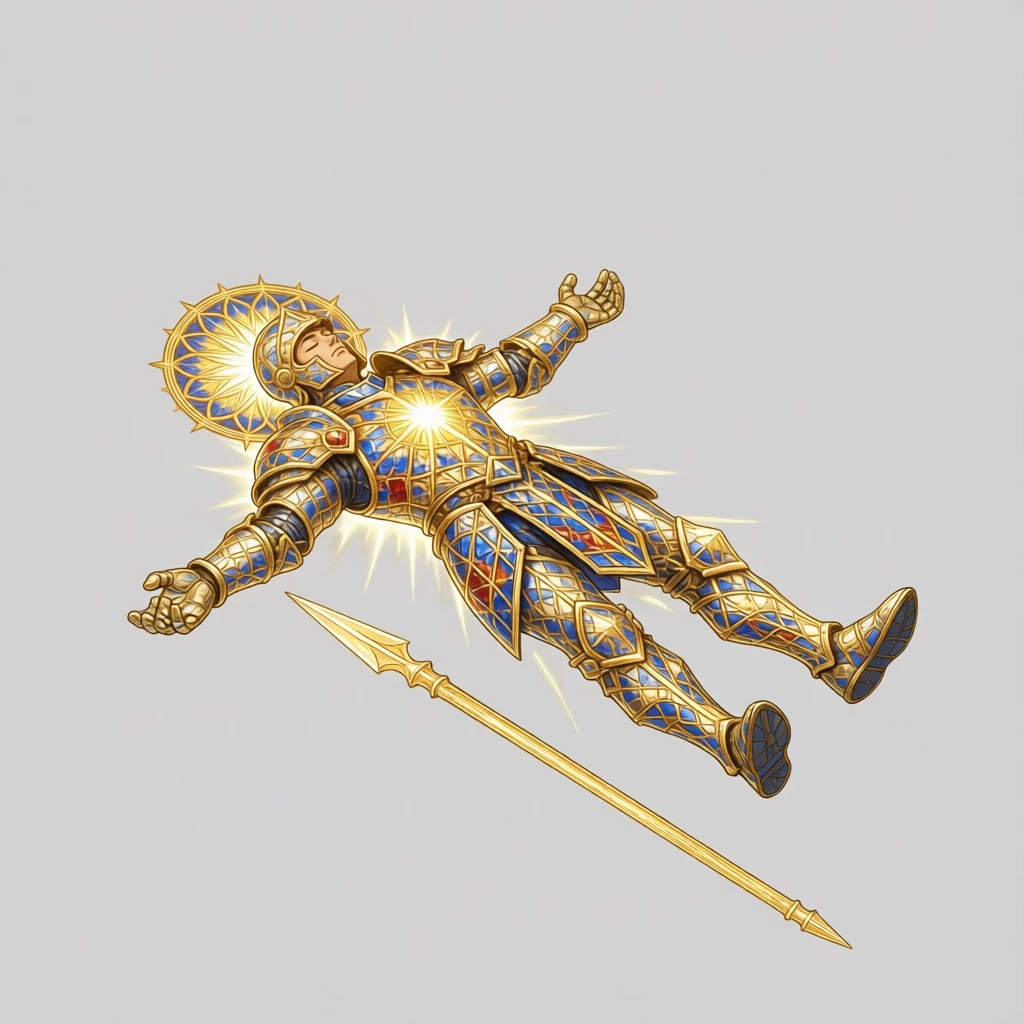
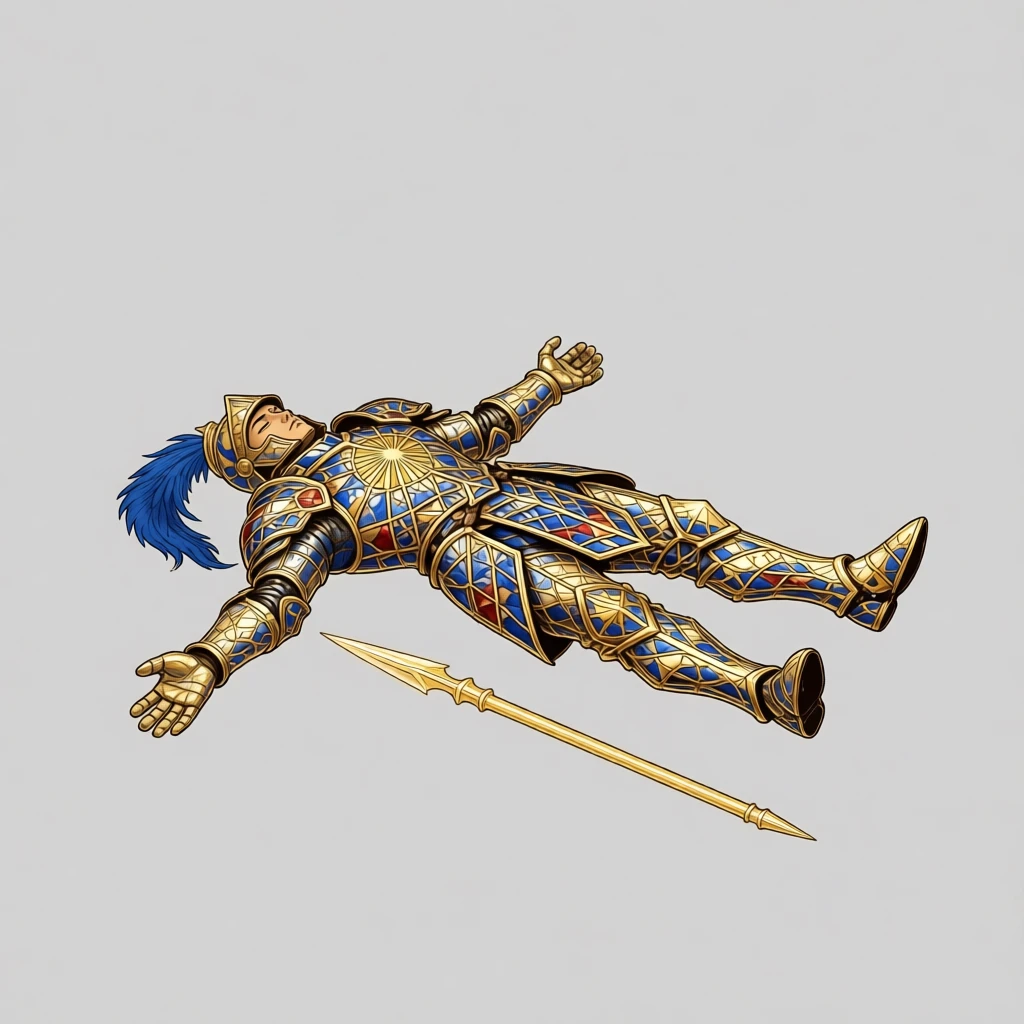
ART-PIPE 2: Sunspears derived from the accepted base, Slingers base redone without the outline, Bloodsworn strike with both blades
Alex's 10-9 verdicts on the base-first batches (#179):
- Sunspears base (m4_redo_base): Good. Poses (march/strike/fallen, 3 takes each, looked at, none had a halo or rays) and the four models
  (ready included) made behind the gate into the model batch m4_redo2 (gitignored review/m4_redo2).
- Hill Slingers base (ind_redo_base): Good with changes on take 3 ("a cel-shaded outline effect the other models don't have"). regen-base now
  edits the take he kept (BASE_FROM) with a prompt that keeps its sling and pouch and repaints it as a soft matte clay miniature; 3 new takes
  in review/ind_redo_base. Nothing is derived from it until he marks it Good.
- Bloodsworn strike (m4_redo): Bad ("removed the arm blade on the other arm"). The strike line names the slim blades of the left forearm too;
  new picture and model in m4_redo2.

Script fixes found on the way: redo handles the ready pose (model row only) and forgets the picks it clears; regen-base rewrites the
manifest first so an edited prompt reaches the redo; compare_sheets copes with a side that has one model. The one ledger line that was a
cached job (model_bloodsworn_ready v1, 0 s) is set to the 0 credits it cost.

Changed region(s): [[0.0938, 0.25, 0.9062, 0.9375]]

diff --git a/tools/ludo/asc_3d_grok.py b/tools/ludo/asc_3d_grok.py
@@ -85,6 +85,16 @@ moved away, the colour lifts of the old model forgotten), and their models go to
 
     python3 tools/ludo/asc_3d_grok.py redo bloodsworn:march bloodsworn:strike bloodsworn:fallen briarwardens:march thornthrowers:fallen
     python3 tools/ludo/asc_3d_grok.py run poses --only bloodsworn,briarwardens,thornthrowers   # then look, `pick <row> <k>`, run models
+
+The 10-9 round (ART-PIPE 2): Alex marked the Sunspears' base Good (review/m4_redo_base), so their derive ran behind the
+gate: `redo sunspears:march sunspears:strike sunspears:fallen sunspears:ready` (the ready pose has only a model row: its
+picture is the base), `run poses --only sunspears`, a look at every picture (a halo or rays added back, or the stained
+glass lost, is re-rolled), `pick`, `run models --only sunspears`, `stage`, then `batch --name m4_redo2 --only ...`. His
+verdict on the Bloodsworn strike in m4_redo was Bad ("close, but it removed the arm blade on the other arm"): the strike
+line names the slim blades of the left forearm as well as the big right one, and it is made again the same way
+(`redo bloodsworn:strike`). A row's request id is sticky: a redo must bump the version (`redo` does), and a `run` that
+reaches a row whose old id was already used gets that old job handed back, free but written to the ledger with the
+credits that job once cost (the batch's ledger line then reads 4.0 for a model that cost nothing: check the account).
 """
 import filecmp
 import glob
@@ -212,11 +222,14 @@ FAMILIES = {
         march="loping forward with his left leg ahead, his arms swinging at his sides, the curved bone blade growing out "
               "of his right forearm as part of the arm and the bone spikes along his left forearm, the blades grow from "
               "the forearms and swing with the arms, his claws open and empty, eyes ahead",
-        ## v2 of the strike picture: the first three takes all drew a hilt, a separate sword raised in his fist.
-        strike="leaping forward in a savage lunge, slashing with his arm blade raised high: the curved bone blade grows out "
-               "of his right forearm as one piece with the arm, running from the elbow past the wrist, his fist closed "
-               "under the blade, the blades grow from the forearms as part of his arms, and his left claws thrust "
-               "forward, mouth open in a snarl",
+        ## v2 of the strike picture: the first three takes all drew a hilt, a separate sword raised in his fist. v3 (Alex
+        ## 10-9, "close, but it removed the arm blade on the other arm"): v2 kept the big right blade and lost the slim
+        ## curved blades of the left forearm that march and fallen have, so the left arm is named with its blades.
+        strike="leaping forward in a savage lunge, slashing with his right arm blade raised high: the big curved bone blade "
+               "grows out of his right forearm as one piece with the arm, running from the elbow past the wrist, his fist "
+               "closed under the blade, while his left arm thrusts forward with the slim curved bone blades growing along "
+               "his left forearm as one piece with that arm, his left claws open at the end of it, the blades grow from "
+               "both forearms as part of his arms, mouth open in a snarl",
         fallen="fallen in battle, lying flat on his back on the floor with his arms out to the sides, the curved bone "
                "blades still growing from his forearms as part of his arms, his claws open and empty, eyes closed"),
 }
@@ -226,20 +239,23 @@ FAMILIES = {
 ## measured guess (asc_3d_factions.measure) stands in. A model's yaw is 0 as in asc-3d-paths: Ludo's GLBs face +Z, which
 ## the board's yaw 180 turns to -Z (the game reads only a GLB's first mesh, so a turn baked into a node would be lost).
 READING = {
-    ("sunspears", "ready"): 0.85, ("sunspears", "march"): 0.88, ("sunspears", "strike"): 0.87,
+    ## the Sunspears' three were read again off the 10-9 pictures' rulers (the halo and rays gone; the spear tip or the plume now
+    ## the top of the figure): helmet top at 13% / 14% / 8% of the figure's height
+    ("sunspears", "ready"): 0.87, ("sunspears", "march"): 0.86, ("sunspears", "strike"): 0.91,
     ("seraphs", "ready"): 0.89, ("seraphs", "march"): 0.87, ("seraphs", "strike"): 0.69,
     ("iron_knights", "ready"): 0.92, ("iron_knights", "march"): 0.94, ("iron_knights", "strike"): 0.93,
     ("iron_colossus", "ready"): 0.96, ("iron_colossus", "march"): 0.96, ("iron_colossus", "strike"): 0.93,
     ("thornthrowers", "ready"): 0.86, ("thornthrowers", "march"): 0.87, ("thornthrowers", "strike"): 0.89,
     ("briarwardens", "ready"): 0.95, ("briarwardens", "march"): 0.86, ("briarwardens", "strike"): 0.72,
     ("bloodtuskers", "ready"): 0.95, ("bloodtuskers", "march"): 0.75, ("bloodtuskers", "strike"): 0.61,
-    ("bloodsworn", "ready"): 0.90, ("bloodsworn", "march"): 0.87, ("bloodsworn", "strike"): 0.72,
+    ("bloodsworn", "ready"): 0.90, ("bloodsworn", "march"): 0.87, ("bloodsworn", "strike"): 0.77,  ## strike: re-read 10-9
     ## fallen: head (or horns) to feet against the figure's longest side, read off the ruler sheet's vertical lines where the
     ## measured share (the bulk of the mesh along that side, asc_3d_factions.measure) takes the arms or a weapon as body;
     ## the others stand at the measured share (0.78 to 0.90). The #179 redo's Bloodsworn march / strike / fallen were read off
 ## the new pictures' rulers (0.87, 0.72, 0.88); the Briarwarden's march and the Thornthrowers' fallen stand as they were.
     ("iron_colossus", "fallen"): 0.85, ("thornthrowers", "fallen"): 0.85, ("briarwardens", "fallen"): 0.85,
     ("bloodtuskers", "fallen"): 0.80, ("bloodsworn", "fallen"): 0.88,
+    ("sunspears", "fallen"): 0.93,  ## 10-9: plume tip to the helmet is 6% of the picture's length, helmet to boots 93%
 }
 ## A cutout of a busy painted ground (a forest, a courtyard) keeps scraps of it (haze, branches, wall, ground) and the
 ## cast shadows of a dark ground; an edit of the ready picture paints those over with the plain grey and keeps the figure.
@@ -284,10 +300,17 @@ GRANDFATHERED = {
 }
 DERIVE_STAGES = ("poses", "models")  ## made only from an accepted base (the gate)
 ## What the redo round makes again: (family, pose) -> Alex's 10-8 note in m4_looks (the models he rejected; their targets
-## are the models the game has now). The Sunspears wait for their base.
+## are the models the game has now). The Sunspears waited for their base; Alex marked it Good on 10-9, so their four models
+## (ready included: a model row with no picture row, the base is the picture) are made from it. His 10-9 note on the
+## Bloodsworn strike (m4_redo): "close, but it removed the arm blade on the other arm".
 REDO = {
+    ("sunspears", "ready"): "good but let's get rid of the halo, and the random spikes coming out of him",
+    ("sunspears", "march"): "let's get rid of the halo",
+    ("sunspears", "strike"): "his spear should be held by the low end; there's spikes coming out of his side for some reason",
+    ("sunspears", "fallen"): "rejected, with the others; made again from the new base, free of the halo and the rays",
     ("bloodsworn", "march"): "same problem, it keeps thinking he's holding the weapons instead of them being attached to his arms",
-    ("bloodsworn", "strike"): "rejected with his edit: slashing with his arm blade raised",
+    ("bloodsworn", "strike"): "rejected with his edit: slashing with his arm blade raised; then, on the redo: close, but it "
+                              "removed the arm blade on the other arm",
     ("bloodsworn", "fallen"): "his arm blades are dropped as weapons, they should be still attached to him",
     ("briarwardens", "march"): "needs to be holding the club",
     ("thornthrowers", "fallen"): "scatter the spears",
@@ -1095,11 +1118,15 @@ def pick_text(name, pose):
     fam = FAMILIES[name]
     if pose == "ready":
         if fam["art"]:
-            return "Modelled from Alex's art, assets/_concept/lore/%s: %s." % (fam["art"], fam["note"])
-        return "No art of Alex's for this one: %s." % fam["note"]
+            text = "Modelled from Alex's art, assets/_concept/lore/%s: %s." % (fam["art"], fam["note"])
+        else:
+            text = "No art of Alex's for this one: %s." % fam["note"]
+        if (name, pose) in REDO:  ## a redone base: the model is made from the base picture he marked Good
+            text += " Redone from the base picture he marked Good, on his note: \"%s\"." % REDO[(name, pose)]
+        return text
     text = "Ready picture edited to: the same figure, now %s." % fam[pose]
     if (name, pose) in REDO:
-        text += " Redone on Alex's 10-8 note: \"%s\"." % REDO[(name, pose)]
+        text += " Redone on Alex's note: \"%s\"." % REDO[(name, pose)]
     return text
 
 
@@ -1246,6 +1273,7 @@ def regen_base():
     sys.path.insert(0, os.path.join(ROOT, "tools", "review"))
     import review as R
     F.ludo.KEY = F.ludo.api_key()
+    write_manifest()  ## the prompts as the code holds them now: a BASE_REDO edit reaches the redo
     R.write_rejected(BASE_BATCH)
     rj = _jload(os.path.join(ROOT, "review", BASE_BATCH, "rejected.json"))
     todo = []
@@ -1297,12 +1325,15 @@ def redo(pairs, why=None):
     man = manifest_rows()
     st = load_state()
     keep_old = os.path.join(ROOT, PIC_CAND, "old")
+    cleared = set()  ## the rows whose pick is forgotten
     for name, pose in pairs:
         key = "%s_%s" % (name, pose)
-        for rid in ("pic_%s" % key, "model_%s" % key):
+        ## the ready pose has no picture row: its picture is the base (the redo of that is `regen-base`)
+        for rid in (("model_%s" % key,) if pose == "ready" else ("pic_%s" % key, "model_%s" % key)):
             a = man[rid]
             st["v"][rid] = max(st["v"].get(rid, 1), _ledger_max_v(rid) + 1)
             st["picks"].pop(rid, None)
+            cleared.add(rid)
             notes = st.setdefault("rerolls", {}).setdefault(rid, [])
             notes.append("redo: %s" % (why or REDO.get((name, pose), "redone")))
             _move_to_old(a)
@@ -1313,11 +1344,13 @@ def redo(pairs, why=None):
                     shutil.move(stale, os.path.join(keep_old, "%s_before_redo.webp" % key))
         st.get("lifts", {}).pop(key, None)
         st.get("pic_lifts", {}).pop("model_%s" % key, None)
-        print("redo %s %s: picture v%d, model v%d" % (name, pose, st["v"]["pic_" + key], st["v"]["model_" + key]))
+        print("redo %s %s: %smodel v%d" % (name, pose, "" if pose == "ready" else "picture v%d, " % st["v"]["pic_" + key],
+                                           st["v"]["model_" + key]))
     F.save_state(st)
-    ## F.save_state keeps what is on disk beside what it is given (picks are a union): write the cleared state through
+    ## F.save_state keeps what is on disk beside what it is given (picks are a union, and it adds the disk's back into
+    ## `st`): write the cleared state through
     disk = load_state()
-    disk["picks"] = {k: v for k, v in disk.get("picks", {}).items() if k in st["picks"]}
+    disk["picks"] = {k: v for k, v in disk.get("picks", {}).items() if k not in cleared}
     for k in ("lifts", "pic_lifts"):
         if k in st:
             disk[k] = st[k]
@@ -1604,7 +1637,10 @@ def compare_sheets(shots, outdir=None):
             ins += ["-i", f]
             flt += "[%d]scale=800:400[s%d];" % (i, i)
             layout.append("%d_%d" % ((i % 2) * 800, (i // 2) * 400))
-        flt += "".join("[s%d]" % i for i in range(len(files))) + "xstack=inputs=%d:layout=%s" % (len(files), "|".join(layout))
+        if len(files) == 1:  ## a batch of one model (xstack needs two or more inputs)
+            flt += "[s0]null"
+        else:
+            flt += "".join("[s%d]" % i for i in range(len(files))) + "xstack=inputs=%d:layout=%s" % (len(files), "|".join(layout))
         out = os.path.join(outdir, "sheet_%s.png" % side)
         _ffmpeg(*ins, "-filter_complex", flt, "-frames:v", "1", out)
         print(out)

diff --git a/tools/ludo/test_base_gate.py b/tools/ludo/test_base_gate.py
@@ -430,15 +430,61 @@ class TheRedoCarriesAlexsNotes(unittest.TestCase):
         self.assertIn("scattered", line)
         self.assertIn("empty", line)
 
-    def test_the_redone_poses_are_the_issues_five_and_their_models_target_what_the_game_has_now(self):
+    def test_the_redone_poses_are_the_issues_five_and_the_sunspears_four_and_their_models_target_what_the_game_has_now(self):
         self.assertEqual(set(G.REDO), {("bloodsworn", "march"), ("bloodsworn", "strike"), ("bloodsworn", "fallen"),
-                                       ("briarwardens", "march"), ("thornthrowers", "fallen")})
+                                       ("briarwardens", "march"), ("thornthrowers", "fallen"),
+                                       ("sunspears", "ready"), ("sunspears", "march"), ("sunspears", "strike"),
+                                       ("sunspears", "fallen")})
         for (fam, pose), note in G.REDO.items():
             self.assertTrue(note)
             row = next(r for r in G.rows() if r["id"] == "model_%s_%s" % (fam, pose))
             self.assertTrue(os.path.exists(os.path.join(G.ROOT, row["target"])), row["target"])
+            if pose == "ready":  ## its picture is the base: no picture row of its own
+                self.assertFalse(any(r["id"] == "pic_%s_%s" % (fam, pose) for r in G.rows()))
+                continue
             pic = next(r for r in G.rows() if r["id"] == "pic_%s_%s" % (fam, pose))
             self.assertEqual(pic["n"], G.REDO_TAKES)
+
+    def test_the_bloodsworn_strike_names_the_blades_of_both_forearms(self):
+        """Alex 10-9 (m4_redo): "close, but it removed the arm blade on the other arm". March and fallen have both."""
+        line = G.FAMILIES["bloodsworn"]["strike"]
+        self.assertIn("right forearm", line)
+        self.assertIn("left forearm", line)
+        self.assertIn("both forearms", line)
+        self.assertIn("blades growing along his left forearm", line)
+        self.assertNotIn("his left claws thrust forward, mouth", line, "v2's wording, which lost the left blades")
+
+    def test_a_redone_ready_model_gets_a_new_request_id_without_a_picture_row(self):
+        """`redo sunspears:ready` bumps only the model row (the ready picture is the base), so the old job is not handed back."""
+        tmp = tempfile.mkdtemp()
+        old = (G.MANIFEST, F.MANIFEST, G.LEDGER, G.ROOT, F.ROOT)
+        try:
+            G.MANIFEST = F.MANIFEST = os.path.join(tmp, "m.json")
+            G.LEDGER = os.path.join(tmp, "l.jsonl")
+            ## the candidates it moves to old/ are the throwaway folder's, never the repo's: `redo` finds them through
+            ## F.cand_files (F.ROOT) and moves them under G.ROOT, so both are redirected (an earlier version of this
+            ## test redirected only G.ROOT and carried a real candidate GLB away)
+            G.ROOT = F.ROOT = tmp
+            real = os.path.join(old[3], "assets", "models", "candidates", "grok", "sunspears_ready.glb")
+            write(os.path.join(tmp, "assets", "models", "candidates", "grok", "sunspears_ready.glb"), b"glb")
+            with open(G.LEDGER, "w") as f:
+                f.write(json.dumps({"row": "model_sunspears_ready", "request_id": "ascgrok-model_sunspears_ready-v1",
+                                    "credits_charged": 4}) + "\n")
+            G.write_manifest({"balance_before": G.SENTINEL, "v": {}, "picks": {"model_sunspears_ready": 1}})
+            G.redo([("sunspears", "ready")])
+            st = G.load_state()
+            self.assertEqual(st["v"]["model_sunspears_ready"], 2)
+            self.assertNotIn("pic_sunspears_ready", st["v"])
+            self.assertNotIn("model_sunspears_ready", st["picks"])
+            self.assertFalse(os.path.exists(os.path.join(tmp, "assets", "models", "candidates", "grok",
+                                                         "sunspears_ready.glb")), "the old candidate went to old/")
+            self.assertTrue(os.path.exists(os.path.join(tmp, "assets", "models", "candidates", "grok", "old",
+                                                        "v1_sunspears_ready.glb")))
+            if os.path.exists(real):  ## the repo's own candidate is never touched
+                self.assertNotEqual(Path(real).read_bytes(), b"glb")
+        finally:
+            G.MANIFEST, F.MANIFEST, G.LEDGER, G.ROOT, F.ROOT = old
+            shutil.rmtree(tmp, ignore_errors=True)
 
     def test_hill_slingers_base_is_a_real_sling_and_the_strike_twirls_it_overhead(self):
         p = FH.BASE_REDO["hill_slingers"]
@@ -454,9 +500,41 @@ class TheRedoCarriesAlexsNotes(unittest.TestCase):
         self.assertNotIn("rifle", strike)
         self.assertNotIn("long leather sling", u["outfit"])
 
+    def test_hill_slingers_base_redo_keeps_the_kept_take_and_loses_the_outline(self):
+        """Alex 10-9 on take 3: "This added a cel-shaded outline effect the other models don't have". v1 said "Same outline
+        style"; v2 is an edit of the take he kept, repainted in the soft matte look of the other Free Holds pictures."""
+        p = FH.BASE_REDO["hill_slingers"]
+        self.assertNotIn("outline", p, "the words that drew the outline are gone, and none names it")
+        for word in ("soft matte", "clay miniature", "soft shading", "same sling and pouch", "doubled"):
+            self.assertIn(word, p)
+        row = next(r for r in FH.rows() if r["id"] == "base_hill_slingers_ready")
+        self.assertEqual(row["from_file"], FH.BASE_FROM["hill_slingers"], "an edit of the kept take, not the old ready picture")
+        self.assertNotEqual(row["from_file"], row["pick_to"])
+        self.assertTrue(row["from_file"].startswith("assets/_concept/candidates/"), "gitignored: never committed")
+
+    def test_the_base_redo_input_is_the_take_he_kept_when_he_marked_it_good_with_changes(self):
+        tmp = tempfile.mkdtemp()
+        old = FH.ROOT
+        try:
+            FH.ROOT = tmp
+            write(os.path.join(tmp, "review", FH.BASE_BATCH, "hill_slingers", "hill_slingers_ready_c3.webp"), b"take three")
+            write(os.path.join(tmp, FH.pick_path("hill_slingers_ready")), b"the old ready picture")
+            entry = {"id": "hill_slingers_ready", "verdict": "revise", "file": "hill_slingers/hill_slingers_ready_c3.webp"}
+            dst = FH.prepare_base_input("hill_slingers", entry)
+            self.assertEqual(Path(dst).read_bytes(), b"take three")
+            ## Bad: no kept take, so the edit starts from the current ready picture
+            dst = FH.prepare_base_input("hill_slingers", dict(entry, verdict="reject"))
+            self.assertEqual(Path(dst).read_bytes(), b"the old ready picture")
+            ## a unit with no BASE_FROM is left alone
+            self.assertIsNone(FH.prepare_base_input("wildkin", entry))
+        finally:
+            FH.ROOT = old
+            shutil.rmtree(tmp, ignore_errors=True)
+
     def test_the_pose_prompts_keep_to_the_c_pose_frame(self):
         for fam, pose in G.REDO:
-            self.assertIn("The same figure, now ", self.prompt(fam, pose))
+            if pose != "ready":  ## the ready picture is the base, not a pose edit
+                self.assertIn("The same figure, now ", self.prompt(fam, pose))
 
 
 class BaseBatchActions(unittest.TestCase):
@@ -519,7 +597,9 @@ class RoundBudget(unittest.TestCase):
                                    "image": "/assets/image"}[r["kind"]]] * r.get("n", 1)  # noqa: E731
         grok = sum(price(r) for r in G.rows() if r["stage"] == "base"
                    or (r["id"].split("_", 1)[1] in ["%s_%s" % k for k in G.REDO] and r["stage"] in ("poses", "models")))
-        self.assertLess(grok * 2, G.CAP, "the redo and a full re-roll of it stay inside the round's cap")
+        ## the redo is nine poses now (the Sunspears' four joined the first five): it fits with room for three re-rolled models
+        model = F.PRICE["/assets/3d-model"]
+        self.assertLess(grok + 3 * model, G.CAP, "the redo and three re-rolled models stay inside the round's cap")
         fh = sum(price(r) for r in FH.rows() if r["unit"] == "hill_slingers" and r["stage"] in ("base", "poses", "models"))
         self.assertLess(fh * 2, FH.CAP)
 

diff --git a/tools/ludo/asc_3d_free_holds.py b/tools/ludo/asc_3d_free_holds.py
@@ -69,6 +69,14 @@ the redo: his notes ("a real sling, not a long rope or a spool: a short cord wit
 "right elbow up, fingers toward the sky, twirling the sling overhead, not held like a rifle"; the fallen pose was fine)
 are in the prompts below, the poses wait for the base. The round `ROUND` has its own CAP; JOB_CAP (120) is the redo's
 budget across both batch scripts (asc_3d_grok.py has 70 of it).
+
+The Hill Slingers' second base (Alex 10-9): he marked take 3 of the first redo Good with changes: "This added a cel-shaded
+outline effect the other models don't have". The sling and pouch were right; the first prompt's "Same outline style" had
+drawn a thin black outline round the figure, unlike the soft matte clay look of the other Free Holds ready pictures. So
+`regen-base` (the batch's Redo rejected) now edits the take he kept (`BASE_FROM`, copied out of the base batch by
+`prepare_base_input`) with a prompt that keeps its figure, sling and pouch and repaints it as a soft matte hand-painted clay
+miniature; it also rewrites the manifest first, so an edited BASE_REDO reaches the redo. Nothing is derived from it until he
+marks it Good.
 """
 import filecmp
 import json
@@ -215,16 +223,25 @@ LYING = F.LYING
 ## The base redo: an edit of the unit's current ready picture, 3 takes, into the concept batch BASE_BATCH. Alex's notes ride
 ## in the prompt in his own words (a negative is drawn, so each is said as what to do). The edit keeps the figure he reviewed
 ## (ind_concept: good, only the sling wrong) and gives him a real sling.
+## v1 ended "Same outline style" and the takes came back with a thin black cel-shaded outline round the whole figure.
+## Alex 10-9, on take 3 (the sling and pouch he kept): "This added a cel-shaded outline effect the other models don't
+## have". v2 is an edit of that take (BASE_FROM) that keeps its figure, sling and pouch exactly and repaints it in the look
+## of the other Free Holds ready pictures: a soft matte painted clay miniature shaped by soft shading, its edges the colour
+## of the cloth, skin and leather itself.
 BASE_REDO = {
-    "hill_slingers": ("The same figure with the same hood, face, outfit and colours, now holding a real sling in his right "
-                      "hand: a short leather cord with a small leather pouch in the middle, the two ends of the cord "
-                      "gripped together in his fist so the cord hangs doubled with the pouch dangling a little below his "
-                      "hand, the whole sling about as long as his forearm. He stands in a relaxed A-pose with his feet "
-                      "apart, his right arm held out from his side with clear space between the sling and his body, his "
-                      "left arm held a little out from his side, alert expression, eyes ahead. Same outline style, "
-                      "three-quarter view from slightly above, the whole figure with wide empty margin on every side, "
-                      "plain flat light grey background."),
+    "hill_slingers": ("The same figure exactly as drawn, the same hood, face, outfit, colours and pose, with the same sling "
+                      "and pouch: a short leather cord with a small leather pouch in the middle, the two ends of the cord "
+                      "gripped together in his right fist so the cord hangs doubled with the pouch dangling a little below "
+                      "his hand. Repaint the whole figure as a soft matte hand-painted clay miniature, like a studio "
+                      "photograph of a painted figurine: the forms are shaped by soft shading and gentle shadow, every "
+                      "colour meets the next at a soft painted edge, the outer edge of the figure is the colour of the "
+                      "cloth, skin and leather itself, and the wool and leather have a fine matte texture. Three-quarter "
+                      "view from slightly above, the whole figure with wide empty margin on every side, plain flat light "
+                      "grey background."),
 }
+## What a base redo is an edit of, where that is not the unit's current ready picture: the take Alex kept (Good with changes),
+## copied out of the base batch into the gitignored inputs folder by `regen-base`, so the redo keeps exactly what he liked.
+BASE_FROM = {"hill_slingers": "assets/_concept/candidates/_inputs/hill_slingers_base_kept.webp"}
 BASE_TAKES = 3
 ## The units whose base Alex accepted before the gate existed: his Good on the ready picture in the batch that judged it
 ## (review/ind_concept, 10-8; PR #178 installed them). If that batch's review.json is here and says otherwise, base_gate
@@ -288,8 +305,8 @@ def rows():
     ## Its candidates go to the concept batch BASE_BATCH, never to the pick: `pick` refuses a base row.
     for uid, prompt in BASE_REDO.items():
         out.append({"id": "base_%s_ready" % uid, "stage": "base", "kind": "edit", "n": BASE_TAKES,
-                    "from_file": pick_path(uid + "_ready"), "prompt": prompt, "pick_to": pick_path(uid + "_ready"),
-                    "group": "units", "unit": uid, "pose": "ready"})
+                    "from_file": BASE_FROM.get(uid, pick_path(uid + "_ready")), "prompt": prompt,
+                    "pick_to": pick_path(uid + "_ready"), "group": "units", "unit": uid, "pose": "ready"})
     for uid, u in UNITS.items():
         for pose in POSES[1:]:
             view = F.VIEW_LYING if pose in LYING else F.VIEW
@@ -832,11 +849,30 @@ def base_status():
         print("%-14s %-20s %s" % (uid, r["state"], ("-> %s" % r["file"]) if r["file"] else r["message"]))
 
 
+def prepare_base_input(uid, entry):
+    """The picture a base redo is an edit of, where BASE_FROM names one: the take Alex kept when he marked it Good with changes
+    (rejected.json's `file`, relative to the base batch), else the unit's current ready picture. Copied into the gitignored
+    inputs folder, so the redo keeps exactly what he liked and changes only what his note asks."""
+    dst = BASE_FROM.get(uid)
+    if not dst:
+        return None
+    src = os.path.join(ROOT, pick_path(uid + "_ready"))
+    kept = os.path.join(ROOT, "review", BASE_BATCH, entry.get("file") or "")
+    if entry.get("verdict") == "revise" and entry.get("file") and os.path.exists(kept):
+        src = kept
+    dst = os.path.join(ROOT, dst)
+    os.makedirs(os.path.dirname(dst), exist_ok=True)
+    shutil.copyfile(src, dst)
+    print("base input for %s: %s" % (uid, os.path.relpath(src, ROOT)))
+    return dst
+
+
 def regen_base():
     """The base batch's Redo rejected: every rejected (or Good with changes) base is rolled again with its prompt as it is
     now (the notes are printed: edit BASE_REDO with them first), then the batch is rebuilt."""
     review = _review_module()
     ludo.KEY = ludo.api_key()
+    write_manifest()  ## the prompts and inputs as the code holds them now: a BASE_REDO edit reaches the redo
     review.write_rejected(BASE_BATCH)
     rj = json.load(open(os.path.join(ROOT, "review", BASE_BATCH, "rejected.json")))
     todo = []
@@ -844,6 +880,7 @@ def regen_base():
         row = (e.get("meta") or {}).get("row")
         if row:
             print("rejected %s: %s" % (e["id"], e.get("note") or "(no note)"))
+            prepare_base_input((e.get("meta") or {}).get("unit"), e)
             todo.append(row)
     if not todo:
         print("nothing rejected")

diff --git a/tools/ludo/test_asc_3d_grok.py b/tools/ludo/test_asc_3d_grok.py
@@ -375,6 +375,22 @@ class PortraitBatch(unittest.TestCase):
             self.assertGreaterEqual(y, 0)
 
 
+class CompareSheets(unittest.TestCase):
+    def test_a_batch_with_one_model_on_a_side_still_gets_its_sheet(self):
+        """m4_redo2 has one Blood Pact model: xstack needs two inputs, so a side with one shot is passed through."""
+        tmp = tempfile.mkdtemp()
+        try:
+            for stem in ("bloodsworn_strike", "sunspears_ready", "sunspears_march"):
+                subprocess.run([F.FF, "-y", "-loglevel", "error", "-f", "lavfi", "-i", "color=c=0x336699:s=1600x800",
+                                "-frames:v", "1", os.path.join(tmp, stem + ".png")], check=True)
+            G.compare_sheets(tmp)
+            self.assertTrue(os.path.exists(os.path.join(tmp, "sheet_blood_pact.png")), "one shot")
+            self.assertTrue(os.path.exists(os.path.join(tmp, "sheet_celestial_host.png")), "two shots")
+            self.assertFalse(os.path.exists(os.path.join(tmp, "sheet_thorn_wild.png")), "no shots, no sheet")
+        finally:
+            shutil.rmtree(tmp, ignore_errors=True)
+
+
 if __name__ == "__main__":
     ## the pipeline modules this drives (asc_3d_factions, glb_slim) leave a few files to the garbage collector
     unittest.main(verbosity=2, warnings="ignore")
